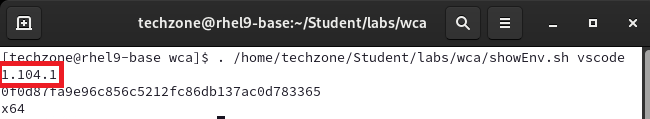
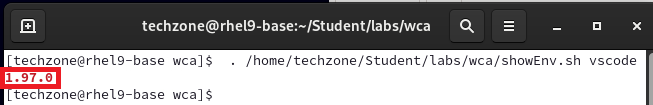
Update text

diff --git a/README.md b/README.md
@@ -361,12 +361,11 @@ In the prepared lab environment, the Visual Studio Code and the Liberty Tools ar
 
         . /home/techzone/Student/labs/wca/showEnv.sh vscode
 
-     If it shows a version **1.104.x** as in the screenshot below, you can continue with the next step. 
-    
-    
+
     <kbd>![vscode_version](./images/media/vscode_version.png)</kbd>
 
-    Otherwise run the following command to update vscode:
+    If it shows version **1.97.0** (as in the screenshot above) or any other version lower **1.104.x**, you need to update vscode. 
+    To do so, run the following command to update vscode:
 
         . vscode_update.sh
 
